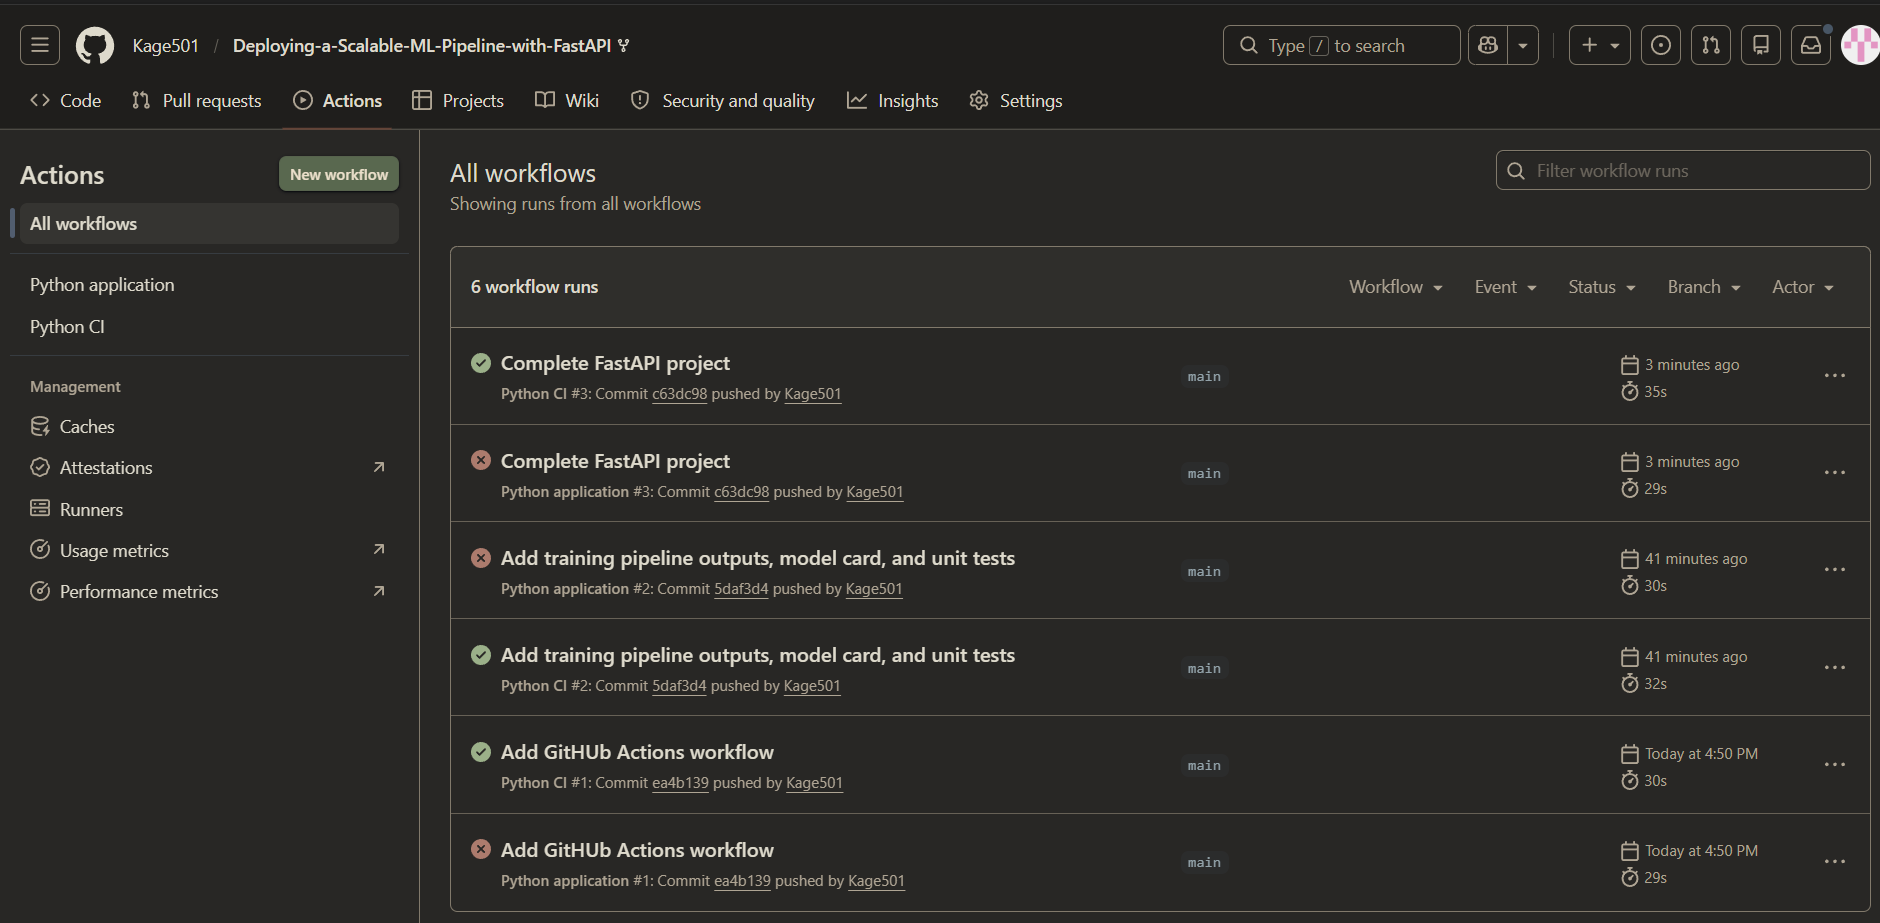
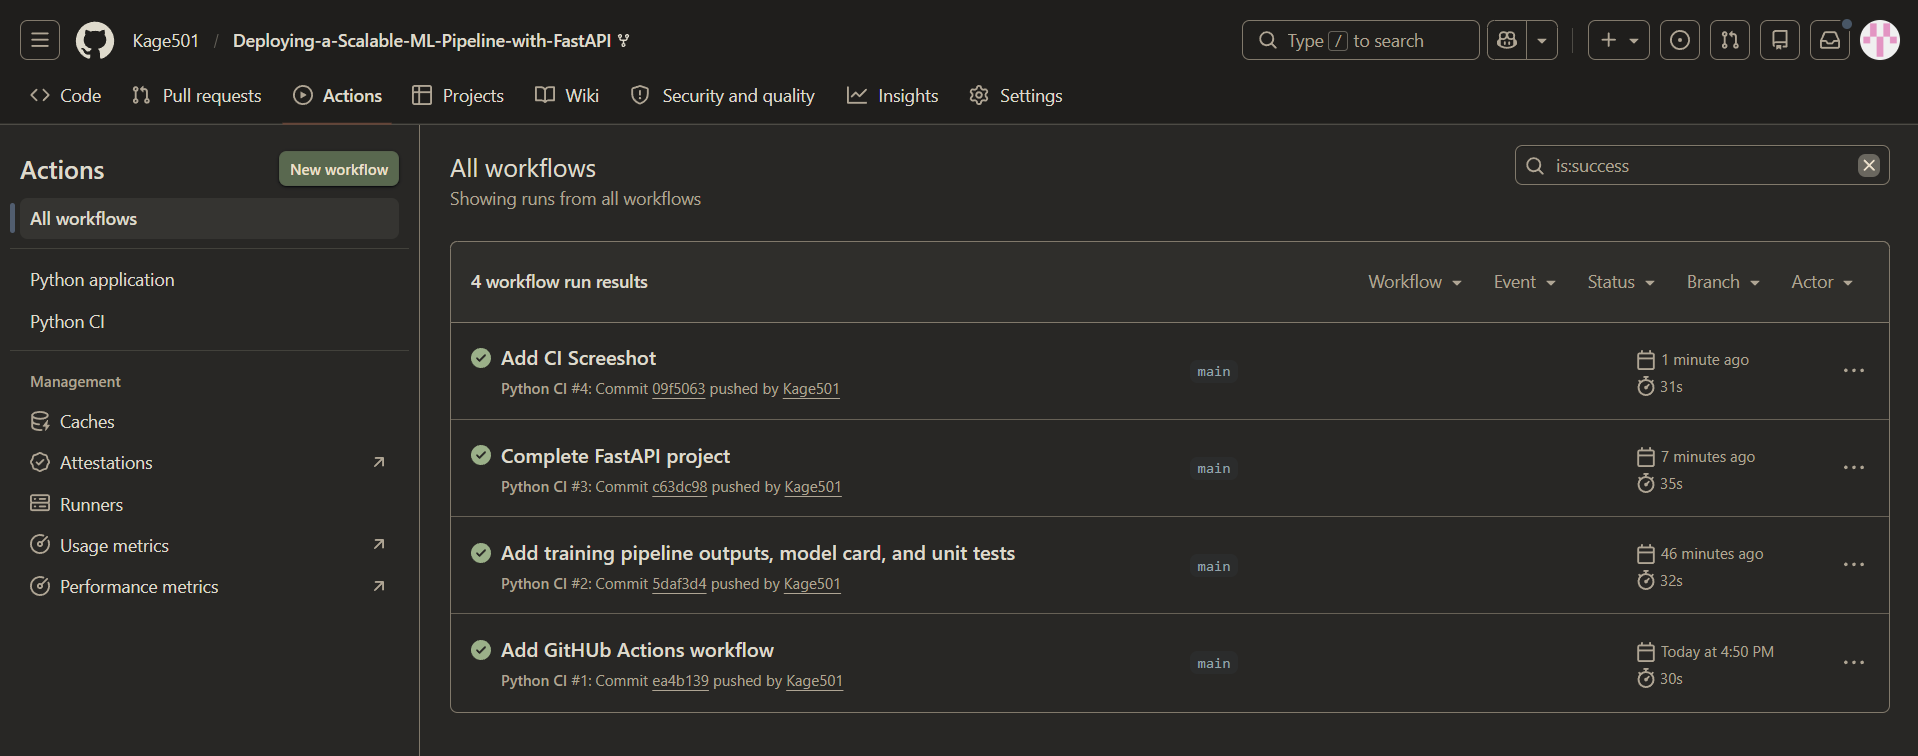
Final Cleanup before submitting

diff --git a/ml/data.py b/ml/data.py
@@ -3,26 +3,33 @@ from sklearn.preprocessing import LabelBinarizer, OneHotEncoder
 
 
 def process_data(
-    X, categorical_features=[], label=None, training=True, encoder=None, lb=None
+    X,
+    categorical_features=[],
+    label=None,
+    training=True,
+    encoder=None,
+    lb=None,
 ):
-    """ Process the data used in the machine learning pipeline.
+    """Process the data used in the machine learning pipeline.
 
-    Processes the data using one hot encoding for the categorical features and a
-    label binarizer for the labels. This can be used in either training or
-    inference/validation.
+    Processes the data using one hot encoding for the categorical
+    features and a label binarizer for the labels. This can be used
+    in either training or inference/validation.
 
-    Note: depending on the type of model used, you may want to add in functionality that
-    scales the continuous data.
+    Note: depending on the type of model used, you may want to add
+    in functionality that scales the continuous data.
 
     Inputs
     ------
     X : pd.DataFrame
-        Dataframe containing the features and label. Columns in `categorical_features`
+        Dataframe containing the features and label. Columns in
+        `categorical_features`
     categorical_features: list[str]
-        List containing the names of the categorical features (default=[])
+        List containing the names of the categorical features
+        (default=[])
     label : str
-        Name of the label column in `X`. If None, then an empty array will be returned
-        for y (default=None)
+        Name of the label column in `X`. If None, then an empty
+        array will be returned for y (default=None)
     training : bool
         Indicator if training mode or inference/validation mode.
     encoder : sklearn.preprocessing._encoders.OneHotEncoder
@@ -37,11 +44,11 @@ def process_data(
     y : np.array
         Processed labels if labeled=True, otherwise empty np.array.
     encoder : sklearn.preprocessing._encoders.OneHotEncoder
-        Trained OneHotEncoder if training is True, otherwise returns the encoder passed
-        in.
+        Trained OneHotEncoder if training is True, otherwise returns
+        the encoder passed in.
     lb : sklearn.preprocessing._label.LabelBinarizer
-        Trained LabelBinarizer if training is True, otherwise returns the binarizer
-        passed in.
+        Trained LabelBinarizer if training is True, otherwise returns
+        the binarizer passed in.
     """
 
     if label is not None:
@@ -54,7 +61,10 @@ def process_data(
     X_continuous = X.drop(*[categorical_features], axis=1)
 
     if training is True:
-        encoder = OneHotEncoder(sparse_output=False, handle_unknown="ignore")
+        encoder = OneHotEncoder(
+            sparse_output=False,
+            handle_unknown="ignore",
+        )
         lb = LabelBinarizer()
         X_categorical = encoder.fit_transform(X_categorical)
         y = lb.fit_transform(y.values).ravel()
@@ -62,15 +72,15 @@ def process_data(
         X_categorical = encoder.transform(X_categorical)
         try:
             y = lb.transform(y.values).ravel()
-        # Catch the case where y is None because we're doing inference.
         except AttributeError:
             pass
 
     X = np.concatenate([X_continuous, X_categorical], axis=1)
     return X, y, encoder, lb
 
+
 def apply_label(inference):
-    """ Convert the binary label in a single inference sample into string output."""
+    """Convert a binary inference sample into string output."""
     if inference[0] == 1:
         return ">50K"
     elif inference[0] == 0:

diff --git a/main.py b/main.py
@@ -7,13 +7,16 @@ from pydantic import BaseModel, Field
 from ml.data import apply_label, process_data
 from ml.model import inference, load_model
 
+
 # DO NOT MODIFY
 class Data(BaseModel):
     age: int = Field(..., example=37)
     workclass: str = Field(..., example="Private")
     fnlgt: int = Field(..., example=178356)
     education: str = Field(..., example="HS-grad")
-    education_num: int = Field(..., example=10, alias="education-num")
+    education_num: int = Field(
+        ..., example=10, alias="education-num"
+    )
     marital_status: str = Field(
         ..., example="Married-civ-spouse", alias="marital-status"
     )
@@ -21,10 +24,19 @@ class Data(BaseModel):
     relationship: str = Field(..., example="Husband")
     race: str = Field(..., example="White")
     sex: str = Field(..., example="Male")
-    capital_gain: int = Field(..., example=0, alias="capital-gain")
-    capital_loss: int = Field(..., example=0, alias="capital-loss")
-    hours_per_week: int = Field(..., example=40, alias="hours-per-week")
-    native_country: str = Field(..., example="United-States", alias="native-country")
+    capital_gain: int = Field(
+        ..., example=0, alias="capital-gain"
+    )
+    capital_loss: int = Field(
+        ..., example=0, alias="capital-loss"
+    )
+    hours_per_week: int = Field(
+        ..., example=40, alias="hours-per-week"
+    )
+    native_country: str = Field(
+        ..., example="United-States", alias="native-country"
+    )
+
 
 path = os.path.join("model", "encoder.pkl")
 encoder = load_model(path)
@@ -35,10 +47,11 @@ model = load_model(path)
 # TODO: create a RESTful API using FastAPI
 app = FastAPI()
 
+
 # TODO: create a GET on the root giving a welcome message
 @app.get("/")
 async def get_root():
-    """ Say hello!"""
+    """Say hello!"""
     # your code here
     return {"message": "Hello from the API!"}
 
@@ -49,8 +62,9 @@ async def post_inference(data: Data):
     # DO NOT MODIFY: turn the Pydantic model into a dict.
     data_dict = data.dict()
     # DO NOT MODIFY: clean up the dict to turn it into a Pandas DataFrame.
-    # The data has names with hyphens and Python does not allow those as variable names.
-    # Here it uses the functionality of FastAPI/Pydantic/etc to deal with this.
+    # The data has names with hyphens and Python does not allow those
+    # as variable names. Here it uses the functionality of
+    # FastAPI/Pydantic/etc to deal with this.
     data = {k.replace("_", "-"): [v] for k, v in data_dict.items()}
     data = pd.DataFrame.from_dict(data)
 
@@ -70,5 +84,5 @@ async def post_inference(data: Data):
         training=False,
         encoder=encoder,
     )
-    _inference = inference(model, data_processed) # your code here to predict the result using data_processed
+    _inference = inference(model, data_processed)
     return {"result": apply_label(_inference)}

diff --git a/local_api.py b/local_api.py
@@ -1,5 +1,3 @@
-import json
-
 import requests
 
 # TODO: send a GET using the URL http://127.0.0.1:8000
@@ -9,8 +7,6 @@ r = requests.get("http://127.0.0.1:8000")
 print("Status Code:", r.status_code)
 # TODO: print the welcome message
 print("Result:", r.json()["message"])
-
-
 
 data = {
     "age": 37,

diff --git a/test_ml.py b/test_ml.py
@@ -1,9 +1,9 @@
-import pytest
-# TODO: add necessary import
 import numpy as np
 from sklearn.ensemble import RandomForestClassifier
+
 from ml.data import apply_label
 from ml.model import compute_model_metrics, train_model
+
 
 # TODO: implement the first test. Change the function name and input as needed
 def test_one():

diff --git a/ml/__init__.py b/ml/__init__.py
@@ -1,1 +1,0 @@
-